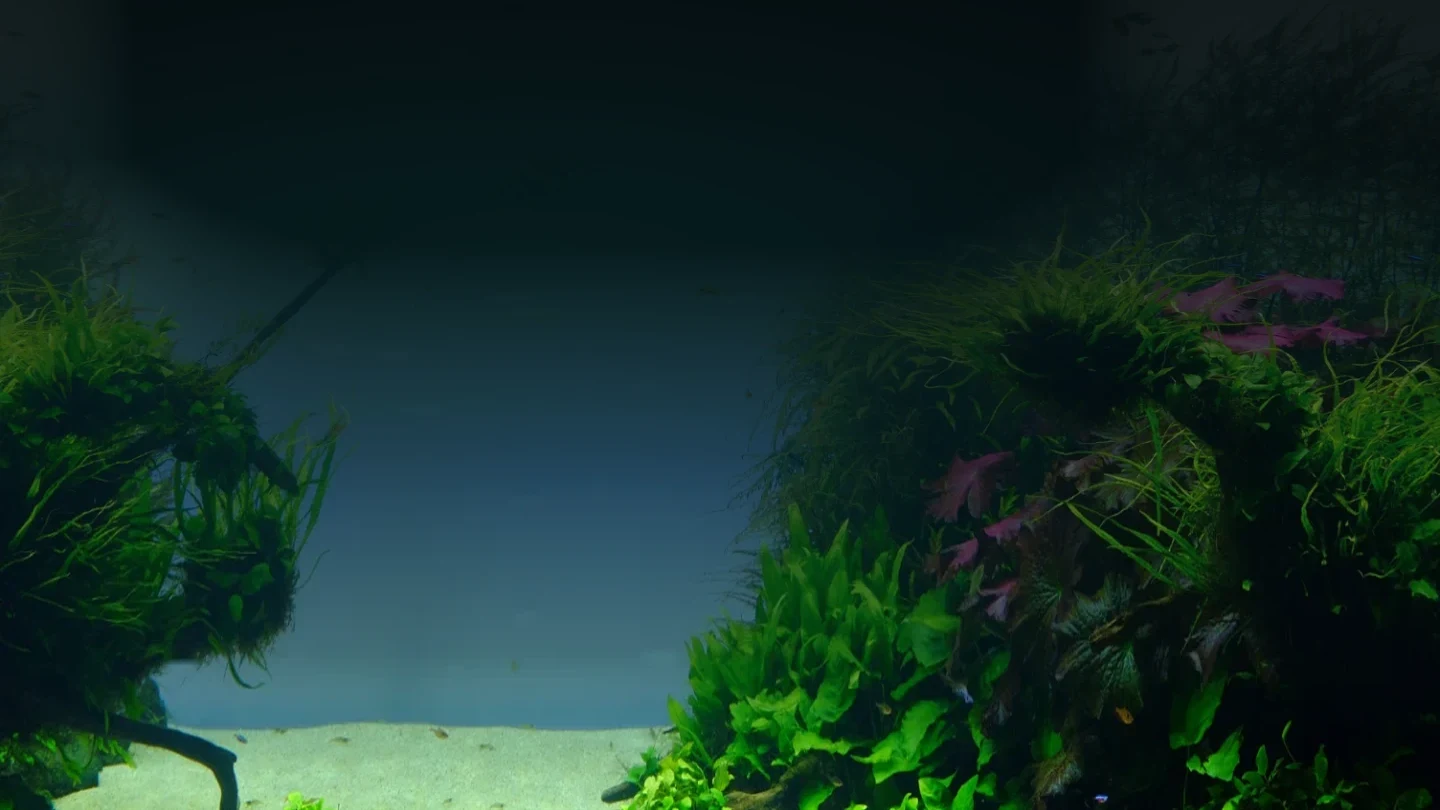
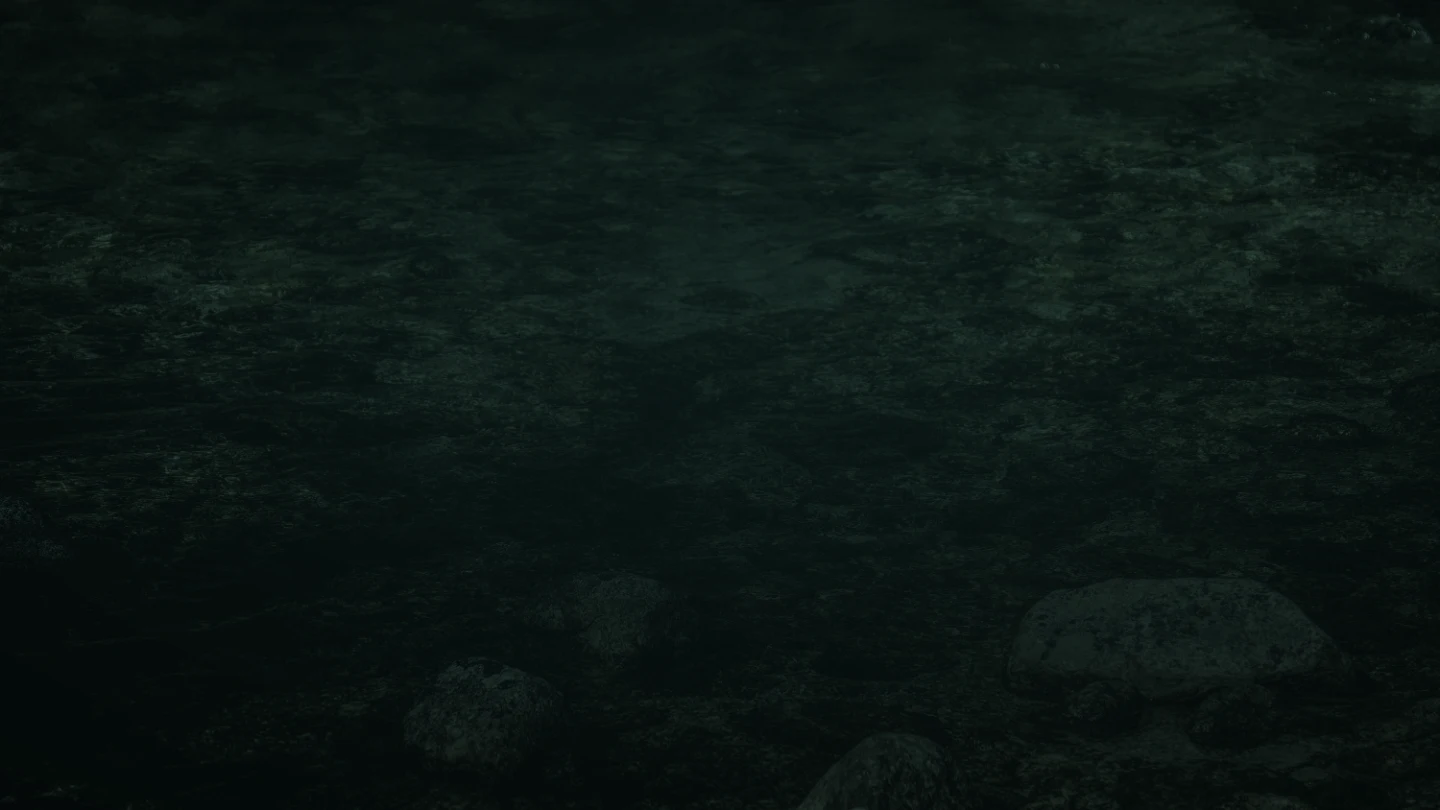
Frame the koi from directly above in dark water

diff --git a/src/components/professional/artwork-life.ts b/src/components/professional/artwork-life.ts
@@ -3,42 +3,50 @@ const height = 562.5;
 const circle = Math.PI * 2;
 
 const koi = [
-  { asset: 1, lane: 144, phase: .49, period: 32, size: 147, direction: 1, opacity: .66 },
-  { asset: 2, lane: 333, phase: .345, period: 35, size: 240, direction: 1, opacity: .93 },
-  { asset: 0, lane: 230, phase: .39, period: 38, size: 279, direction: -1, opacity: .97 },
+  { asset: 1, x: 527, y: 284, rx: 263, ry: 127, phase: 4.25, speed: .101, size: 149, depth: .82 },
+  { asset: 2, x: 488, y: 263, rx: 213, ry: 129, phase: 1.08, speed: -.114, size: 168, depth: .93 },
+  { asset: 0, x: 485, y: 297, rx: 245, ry: 125, phase: 2.53, speed: .111, size: 198, depth: .95 },
+  { asset: 1, x: 576, y: 279, rx: 205, ry: 112, phase: .06, speed: -.092, size: 122, depth: .73 },
 ];
+
+function swimAt(fish: (typeof koi)[number], time: number) {
+  const angle = fish.phase + time * fish.speed + Math.sin(time * .36 + fish.phase) * .11;
+  return {
+    x: fish.x + Math.cos(angle) * fish.rx + Math.sin(angle * 2) * 12,
+    y: fish.y + Math.sin(angle) * fish.ry + Math.cos(angle * 3) * 12,
+    angle,
+  };
+}
 
 export function drawKoi(ctx: CanvasRenderingContext2D, fishImages: HTMLImageElement[], time: number) {
   koi.forEach((fish, i) => {
+    const { x, y, angle } = swimAt(fish, time);
+    const next = swimAt(fish, time + .15);
+    const previous = swimAt(fish, time - .15);
+    const heading = Math.atan2(next.y - previous.y, next.x - previous.x);
     const sprite = fishImages[fish.asset];
-    const progress = (fish.phase + time / fish.period) % 1;
-    const length = fish.size * (1 + Math.sin(progress * circle + i) * .055);
+    const length = fish.size * (1 + Math.sin(angle + i * .7) * .037);
     const thickness = length * sprite.height / sprite.width;
-    const travel = progress * (width + fish.size * 1.22) - fish.size * .61;
-    const x = fish.direction > 0 ? travel : width - travel;
-    const y = fish.lane + Math.sin(progress * circle - i * 1.4) * (12 + i * 8);
-    const pitch = Math.cos(progress * circle - i * 1.4) * .064;
-    const rootBend = (u: number) => Math.sin(time * (3.4 + i * .25) + u * 6.7 + i)
-      * (1 - u) ** 2.65 * length * .045;
+    const tail = (u: number) => (Math.sin(time * (3.4 + i * .23) + u * 6.9 + i * 1.7) - Math.sign(fish.speed) * .27)
+      * (1 - u) ** 2.34 * length * .105;
 
     ctx.save();
     ctx.translate(x, y);
-    ctx.scale(fish.direction, 1);
-    ctx.rotate(pitch);
-    ctx.globalAlpha = fish.opacity;
-    const slices = 22;
+    ctx.rotate(heading);
+    ctx.globalAlpha = fish.depth + Math.sin(time * .64 + x * .023 + y * .018) * .045;
+    const slices = 26;
     const slice = length / slices;
-    let previousBend = rootBend(0);
-    // The head stays steady while the sides and tail flex against the current.
+    let previousBend = tail(0);
+    // The head leads the turn, with successive slices following along the spine.
     for (let j = 0; j < slices; j++) {
       const u = j / slices;
-      const nextBend = rootBend((j + 1) / slices);
+      const nextBend = tail((j + 1) / slices);
       const slope = (nextBend - previousBend) / slice;
       const left = length * (u - .5);
       ctx.save();
       ctx.transform(1, slope, 0, 1, 0, previousBend - slope * left);
       ctx.drawImage(sprite, u * sprite.width, 0, sprite.width / slices, sprite.height,
-        left, -thickness * .5, slice + .30, thickness);
+        left, -thickness * .5, slice + .31, thickness);
       ctx.restore();
       previousBend = nextBend;
     }

diff --git a/src/components/professional/artwork-water.ts b/src/components/professional/artwork-water.ts
@@ -20,26 +20,33 @@ uniform float time;
 uniform vec4 waves[3];
 
 void main() {
-  vec3 photoColor = texture2D(photo, uv).rgb;
-  float gravel = smoothstep(.83, .965, uv.y);
-  float leaves = smoothstep(.06, .19, photoColor.g - photoColor.b)
-    * smoothstep(.48, .92, uv.y);
-  float floor = max(gravel, leaves);
-  vec2 pool = vec2(uv.x * 25., uv.y * 36.);
-  float a = sin(pool.x + pool.y + sin(pool.y * .9 - time * .71) * 1.23 - time * .82);
-  float b = sin(pool.x * 1.17 - pool.y * .83 + sin(pool.x - time * .58) * 1.5 + time * .95);
-  float caustic = pow(max(0., 1. - abs(a + b) * 1.32), 4.);
-  float beam = pow(.5 + .5 * sin((uv.x + uv.y * .32) * 30. + sin(time * .28) * .62), 5.);
-  float glow = beam * (1. - uv.y) * .022;
+  // Work in aspect-correct pond coordinates so ripples stay circular.
+  vec2 p = uv * vec2(1.77778, 1.);
+  float primary = p.x * 28. + p.y * 13. + sin(p.y * 9. + time * .58) - time * 1.55;
+  float crossWave = p.x * 14. - p.y * 33. + sin(p.x * 7. - time * .44) * 1.8 + time * 1.07;
+  vec2 at = uv + vec2(sin(primary) * .0017 + sin(crossWave) * .0011,
+    cos(primary) * .0022 - cos(crossWave) * .0014);
+  float rippleLight = 0.;
   for (int i = 0; i < 3; ++i) {
-    vec4 current = waves[i];
-    float age = time - current.z;
-    vec2 diff = (uv - current.xy) * vec2(1.77778, 1.);
-    float drift = exp(-length(diff - vec2(age * .045, 0.)) * 6.3);
-    glow += current.w * drift * smoothstep(0., .24, age) * (1. - smoothstep(.55, 2.8, age)) * .024;
+    vec4 impulse = waves[i];
+    float age = time - impulse.z;
+    vec2 offset = (uv - impulse.xy) * vec2(1.77778, 1.);
+    float radius = length(offset);
+    float pulse = smoothstep(0., .12, age) * (1. - smoothstep(.82, 2.85, age));
+    float front = radius - age * .265 + sin(primary * .7 - crossWave * .19) * .006 * min(age, 1.);
+    float ring = sin(front * 112.) * exp(-abs(front) * 46.) * pulse * impulse.w;
+    at += offset / max(radius, .009) * ring * vec2(.008, .013);
+    rippleLight += max(ring, 0.) * .106 + min(ring, 0.) * .028;
   }
-  vec3 light = vec3(.67, .88, .53) * (glow + (caustic - .16) * floor * .063);
-  gl_FragColor = vec4(photoColor * (1. + caustic * floor * .09) + light, 1.);
+  float folded = sin(primary + sin(crossWave * .72) * 1.42) + sin(crossWave);
+  float caustic = pow(max(0., 1. - abs(folded) * 1.13), 5.);
+  float patch = smoothstep(-.55, .72, sin(p.x * 5.6 + p.y * 4.4 - time * .28)
+    + cos(p.y * 6.8 - p.x * 2.4 + time * .34) * .58);
+  float light = caustic * (.012 + patch * .032) + rippleLight;
+  vec3 color = texture2D(photo, clamp(at, .001, .999)).rgb;
+  // Brighter subjects inherit the same moving light as the bed beneath them.
+  color = color * (1. + light * 1.22) + vec3(.39, .67, .64) * light;
+  gl_FragColor = vec4(color, 1.);
 }
 `;
 

diff --git a/src/components/professional/scenic-artwork.tsx b/src/components/professional/scenic-artwork.tsx
@@ -8,8 +8,7 @@ import { createArtworkSurface } from "./artwork-water";
 const width = 1000;
 const height = 562.5;
 const pondSources = [
-  "/artwork/pond-water.webp", "/artwork/pond-plants.webp",
-  "/artwork/pond-koi-vermilion.webp", "/artwork/pond-koi-copper.webp", "/artwork/pond-koi-gold.webp",
+  "/artwork/pond-water.webp", "/artwork/kohaku.webp", "/artwork/sanke.webp", "/artwork/ogon.webp",
 ];
 
 function loadImage(src: string) {
@@ -41,7 +40,6 @@ export function ScenicArtwork({ id, active }: { id: ScenicId; active: boolean })
     const waves = new Float32Array(12);
     let life: HTMLImageElement[] = [];
     let plate: HTMLImageElement | undefined;
-    let foreground: HTMLImageElement | undefined;
     let surface: ReturnType<typeof createArtworkSurface> = null;
     let underwater: CanvasRenderingContext2D | null = null;
     let drawFireflies: ReturnType<typeof makeFireflies> | undefined;
@@ -55,7 +53,6 @@ export function ScenicArtwork({ id, active }: { id: ScenicId; active: boolean })
         const brush = surface && underwater ? underwater : context;
         brush.drawImage(plate, 0, 0, width, height);
         drawKoi(brush, life, elapsed);
-        if (foreground) brush.drawImage(foreground, 0, 0, width, height);
         drawPondMotes(brush, elapsed, waves);
         if (surface) surface.draw(elapsed, waves);
       }
@@ -132,8 +129,8 @@ export function ScenicArtwork({ id, active }: { id: ScenicId; active: boolean })
       if (disposed) return;
       if (base) {
         plate = base;
+        life = subjects;
         if (pond) {
-          [foreground, ...life] = subjects;
           const composition = document.createElement("canvas");
           composition.width = 1024;
           composition.height = 576;
@@ -143,7 +140,7 @@ export function ScenicArtwork({ id, active }: { id: ScenicId; active: boolean })
             surface = createArtworkSurface(waterCanvas, composition);
             if (surface) waterCanvas.dataset.ready = "true";
           }
-        } else life = subjects;
+        }
       } else {
         drawFireflies = makeFireflies();
       }
@@ -191,7 +188,7 @@ export function ScenicArtwork({ id, active }: { id: ScenicId; active: boolean })
     {active && isLive && id !== "grove" && <button
       type="button"
       className="artwork-interact"
-      aria-label={id === "pond" ? "Stir the water" : "Send a gust through the meadow"}
+      aria-label={id === "pond" ? "Send a ripple through the pond" : "Send a gust through the meadow"}
       onClick={event => {
         const bounds = event.currentTarget.getBoundingClientRect();
         const x = event.detail ? (event.clientX - bounds.x) / bounds.width : .5;

diff --git a/src/components/professional/artwork-scenes.ts b/src/components/professional/artwork-scenes.ts
@@ -8,20 +8,19 @@ type Scene = {
   image: string;
   creator: string;
   source: string;
-  additionalCredit?: { creator: string; source: string; license: { label: string; url: string } };
+  additionalCredit?: { creator: string; source: string };
 };
 
 export const scenicArtworks: Record<ScenicId, Scene> = {
   pond: {
     title: "Koi Pond",
-    description: "Seen from underwater, orange and golden koi swim past moss and gravel in deep green water.",
+    description: "Looking straight down through dark water, red, white, and golden koi swim over a shadowed bed of stones.",
     image: "/artwork/koi-pond.webp",
-    creator: "Pablo Buendia",
-    source: "https://www.pexels.com/video/fishes-in-aquarium-12409002/",
+    creator: "Hideyoshi isai",
+    source: "https://www.pexels.com/video/vibrant-koi-fish-swimming-in-a-clear-pond-31421042/",
     additionalCredit: {
-      creator: "Georg Pirrung",
-      source: "https://commons.wikimedia.org/wiki/File:Forests_Underwater_(122868199).jpeg",
-      license: { label: "CC BY 3.0", url: "https://creativecommons.org/licenses/by/3.0/" },
+      creator: "Francesco Ungaro",
+      source: "https://www.pexels.com/photo/crystal-clear-water-in-creek-5427803/",
     },
   },
   plateau: {

diff --git a/src/components/professional/artwork-frame.tsx b/src/components/professional/artwork-frame.tsx
@@ -153,8 +153,7 @@ export function ArtworkFrame() {
       <div className="artwork-credit">
         {photo && <>
           Images by <a href={photo.source}>{photo.creator}</a>
-          {photo.additionalCredit && <> and <a href={photo.additionalCredit.source}>{photo.additionalCredit.creator}</a>
-            {" "}(adapted, <a href={photo.additionalCredit.license.url}>{photo.additionalCredit.license.label}</a>)</>}
+          {photo.additionalCredit && <> and <a href={photo.additionalCredit.source}>{photo.additionalCredit.creator}</a></>}
         </>}
       </div>
     </figcaption>
